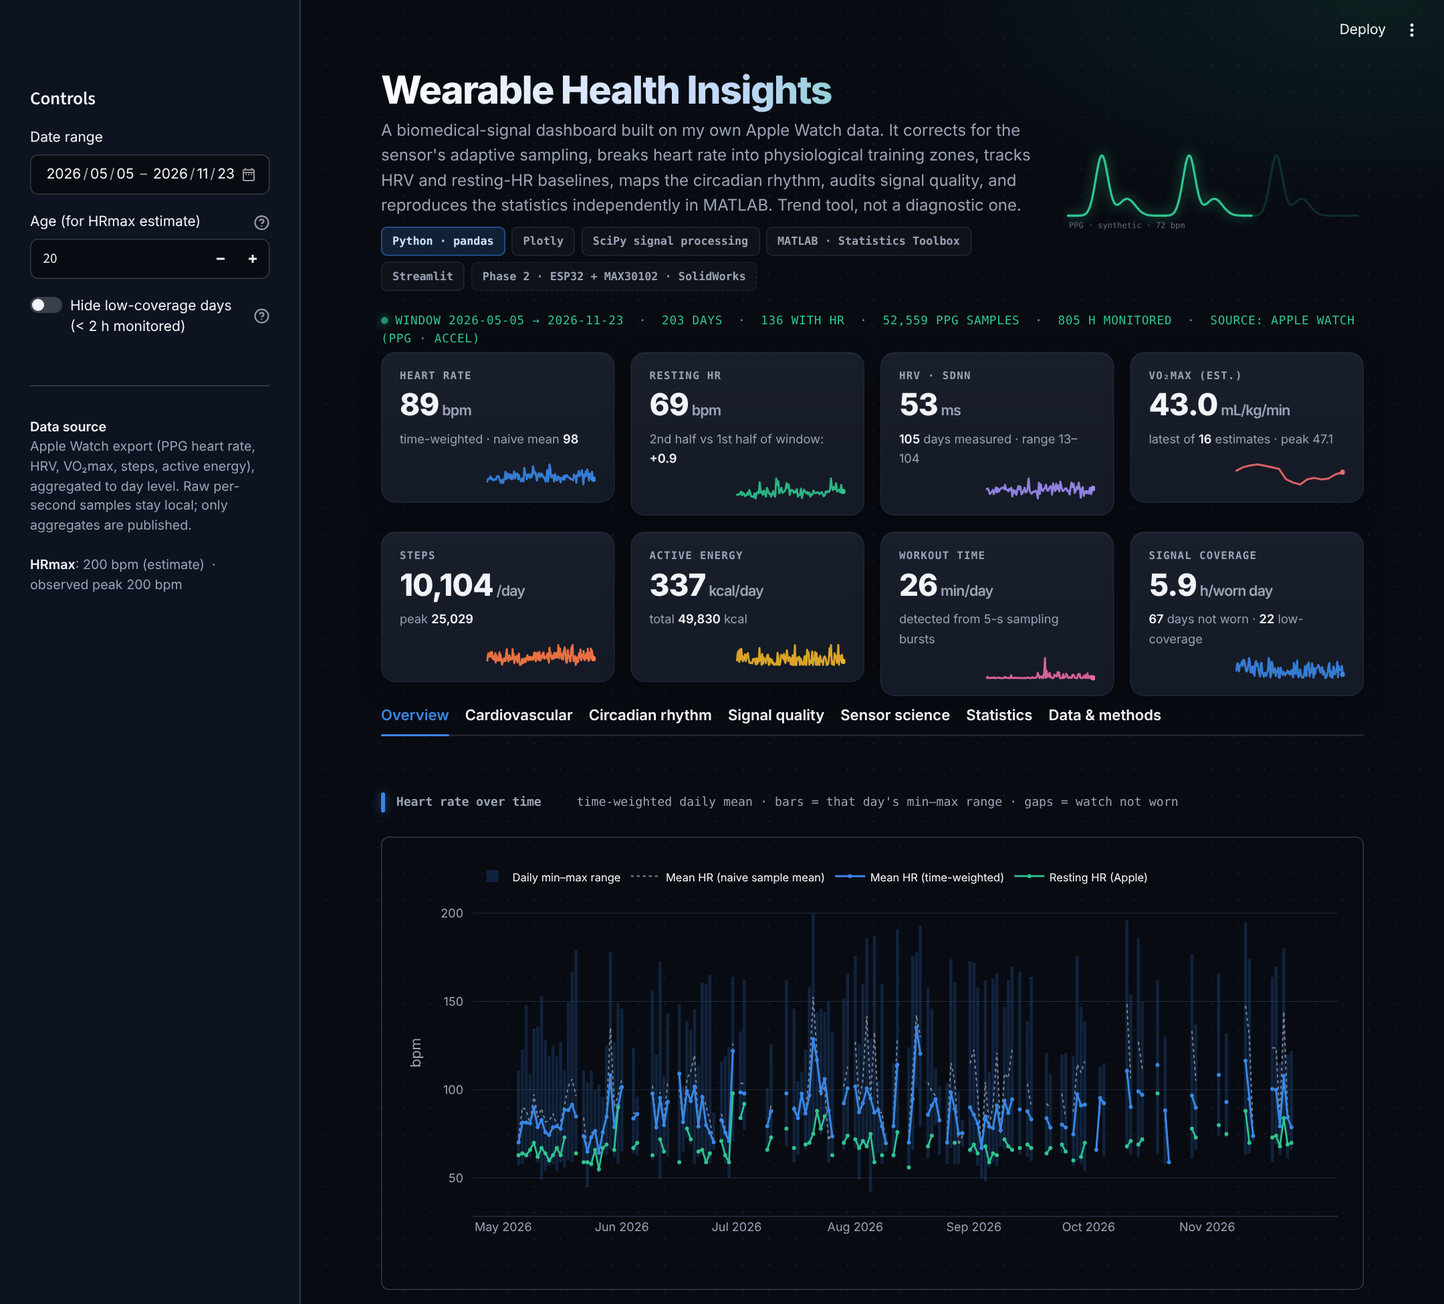
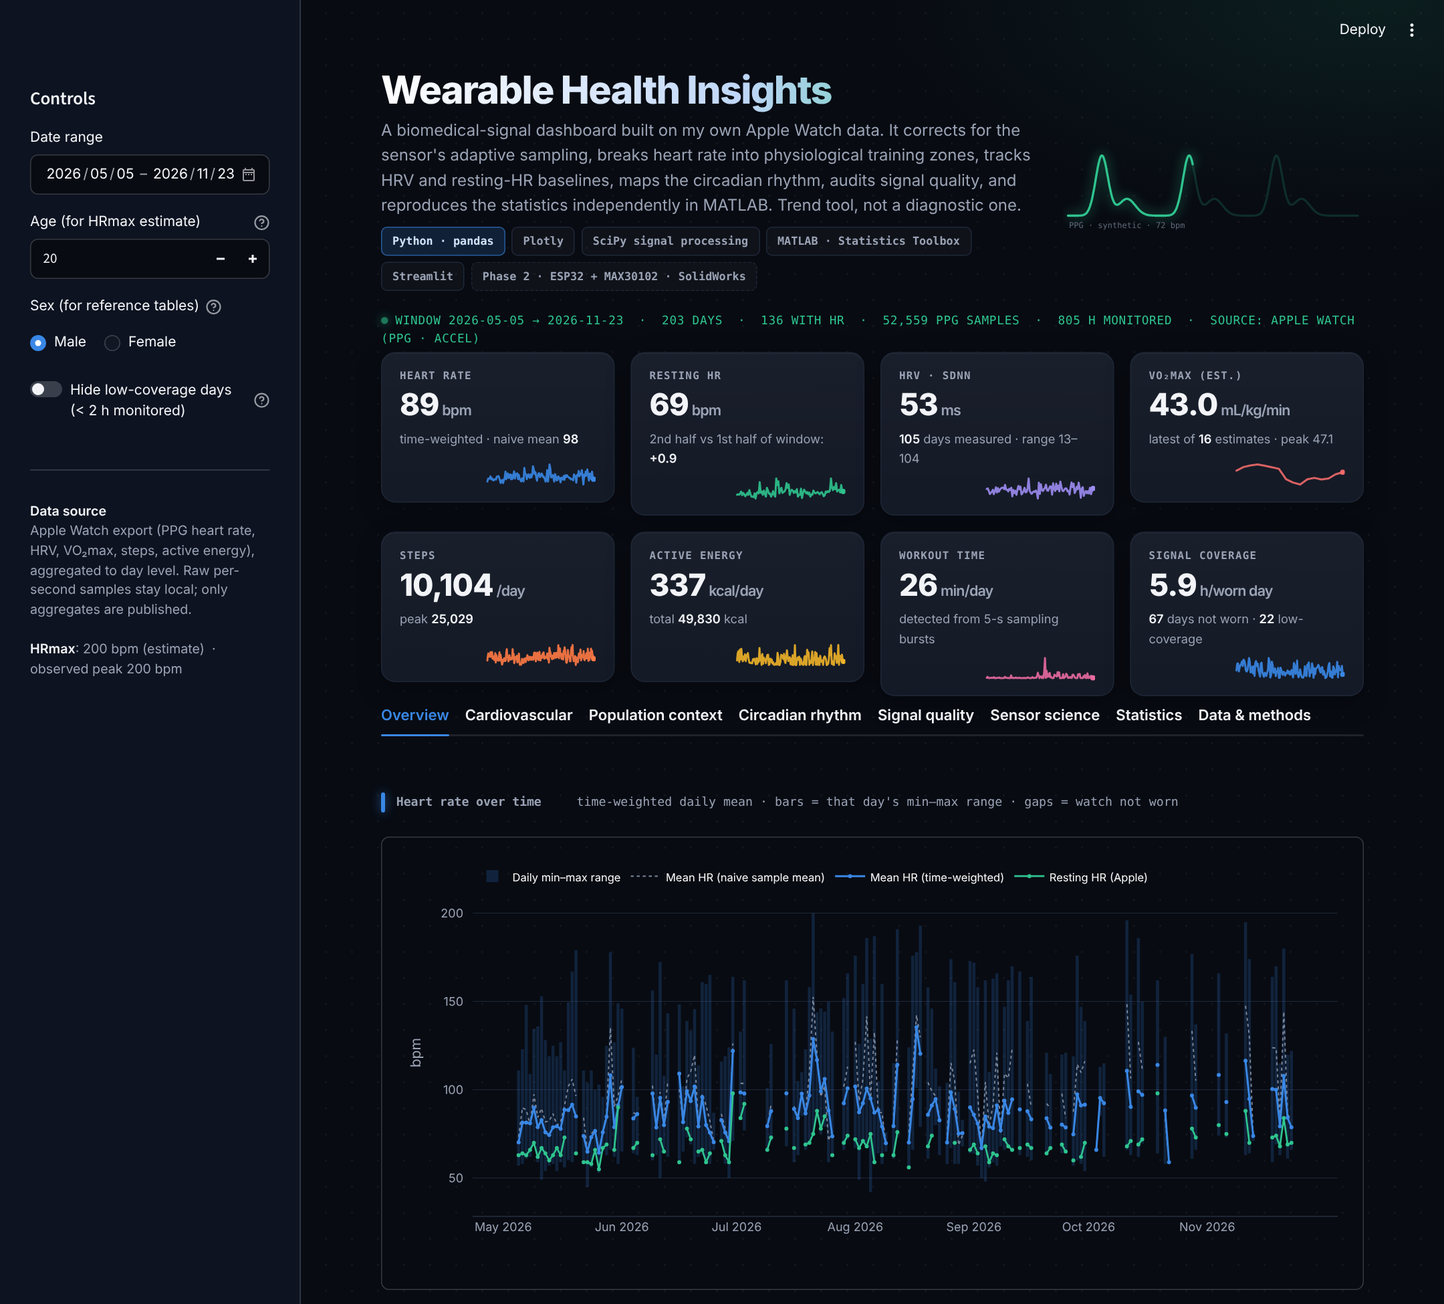
Add population-context tab with published US reference data
- VO2max vs FRIEND registry percentiles, resting HR vs NHANES 1999-2008,
  steps vs US adult average; HRV deliberately not compared
- Sex selector in sidebar; reference band on the VO2max chart
- README section with sources and screenshot

Changed region(s): [[0.0, 0.2154, 0.1861, 0.5231], [0.4032, 0.5231, 0.8065, 0.5538], [0.8375, 0.5231, 0.8995, 0.5538]]

diff --git a/app.py b/app.py
@@ -52,6 +52,42 @@ ZONE_LABELS = ["Zone 1 · Very light", "Zone 2 · Light", "Zone 3 · Moderate",
 ZONE_COLS = ["zone1_min", "zone2_min", "zone3_min", "zone4_min", "zone5_min"]
 MONO = "'JetBrains Mono', 'SF Mono', ui-monospace, Menlo, Consolas, monospace"
 
+# -----------------------------------------------------------------------------
+# Published US reference data (for the "Population context" tab).
+# These are transcribed from the cited tables - they are NOT derived from my data.
+# Each list holds the 5th, 10th, 25th, 50th, 75th, 90th and 95th percentiles.
+# -----------------------------------------------------------------------------
+REF_PCTS = [5, 10, 25, 50, 75, 90, 95]
+
+# VO2max, mL O2/kg/min, measured directly by cardiopulmonary exercise testing on
+# a treadmill. Kaminsky et al., Mayo Clin Proc 2015 (FRIEND registry, 7,783 tests,
+# US adults 20-79 without cardiovascular disease), Table 3.
+VO2_REF = {
+    "Male": {(20, 29): [29.0, 32.1, 40.1, 48.0, 55.2, 61.8, 66.3], (30, 39): [27.2, 30.2, 35.9, 42.4, 49.2, 56.5, 59.8],
+             (40, 49): [24.2, 26.8, 31.9, 37.8, 45.0, 52.1, 55.6], (50, 59): [20.9, 22.8, 27.1, 32.6, 39.7, 45.6, 50.7],
+             (60, 69): [17.4, 19.8, 23.7, 28.2, 34.5, 40.3, 43.0], (70, 79): [16.3, 17.1, 20.4, 24.4, 30.4, 36.6, 39.7]},
+    "Female": {(20, 29): [21.7, 23.9, 30.5, 37.6, 44.7, 51.3, 56.0], (30, 39): [19.0, 20.9, 25.3, 30.2, 36.1, 41.4, 45.8],
+               (40, 49): [17.0, 18.8, 22.1, 26.7, 32.4, 38.4, 41.7], (50, 59): [16.0, 17.3, 19.9, 23.4, 27.6, 32.0, 35.9],
+               (60, 69): [13.4, 14.6, 17.2, 20.0, 23.8, 27.0, 29.4], (70, 79): [13.1, 13.6, 15.6, 18.3, 20.8, 23.1, 24.1]},
+}
+
+# Resting pulse rate, beats/min, counted after ~4 minutes seated rest.
+# Ostchega et al., National Health Statistics Reports no. 41, 2011
+# (NHANES 1999-2008), Tables 2 and 3.
+RHR_REF = {
+    "Male": {(16, 19): [52, 56, 61, 69, 78, 87, 92], (20, 39): [52, 55, 61, 69, 76, 84, 89],
+             (40, 59): [52, 55, 61, 68, 77, 85, 90], (60, 79): [50, 54, 60, 67, 75, 84, 91],
+             (80, 120): [51, 54, 61, 68, 78, 86, 94]},
+    "Female": {(16, 19): [58, 62, 69, 77, 85, 94, 99], (20, 39): [57, 60, 66, 74, 82, 89, 95],
+               (40, 59): [56, 59, 64, 71, 79, 86, 92], (60, 79): [56, 59, 64, 70, 78, 86, 92],
+               (80, 120): [56, 59, 64, 71, 77, 85, 93]},
+}
+
+# Steps per day: one overall figure for US adults aged 20+ (not split by age or sex).
+# Tudor-Locke et al., Int J Behav Nutr Phys Act 2010 (NHANES 2005-2006, hip-worn
+# ActiGraph accelerometer, steps censored to a pedometer-like scale).
+STEPS_REF_US_ADULTS = 6564
+
 st.markdown(
     f"""
     <style>
@@ -322,6 +358,62 @@ def sensor_cross_section_svg() -> str:
 </svg></div>"""
 
 
+def ref_row(table: dict, sex_key: str, age_years: int):
+    """Look up the reference row for a sex and age. Returns (label, values) or None."""
+    for (lo, hi), vals in table[sex_key].items():
+        if lo <= age_years <= hi:
+            return (f"{lo}+" if hi >= 120 else f"{lo}–{hi}"), vals
+    return None
+
+
+def ordinal(n: float) -> str:
+    n = int(round(n))
+    suffix = "th" if 10 <= n % 100 <= 20 else {1: "st", 2: "nd", 3: "rd"}.get(n % 10, "th")
+    return f"{n}{suffix}"
+
+
+def estimate_percentile(value: float, vals: list) -> str:
+    """Place a value on a published percentile table by linear interpolation
+    between the tabulated percentiles. Outside the table it is only bounded."""
+    if pd.isna(value):
+        return "—"
+    if value < vals[0]:
+        return "below the 5th percentile"
+    if value > vals[-1]:
+        return "above the 95th percentile"
+    return f"about the {ordinal(np.interp(value, vals, REF_PCTS))} percentile"
+
+
+def percentile_strip(vals: list, value: float, lo: float, hi: float, unit: str, color: str, name: str) -> go.Figure:
+    """Horizontal reference strip: nested 5–95 / 10–90 / 25–75 bands, median tick,
+    and my own value (marker) with the range of my values in the window (whisker)."""
+    fig = go.Figure()
+    bands = [(0, 6, "rgba(154,163,181,0.14)", "5th–95th"), (1, 5, "rgba(154,163,181,0.24)", "10th–90th"),
+             (2, 4, "rgba(154,163,181,0.40)", "25th–75th")]
+    for i, j, fill, label in bands:
+        fig.add_trace(go.Bar(y=[""], x=[vals[j] - vals[i]], base=vals[i], orientation="h", width=0.62,
+                             marker_color=fill, marker_line_width=0, name=f"Reference {label}",
+                             hovertemplate=f"{label}: {vals[i]:g}–{vals[j]:g} {unit}<extra></extra>"))
+    fig.add_shape(type="line", x0=vals[3], x1=vals[3], y0=-0.31, y1=0.31, line=dict(color="#E6EBF5", width=2))
+    for p, v in zip(REF_PCTS, vals):
+        fig.add_annotation(x=v, y=0.34, yanchor="bottom", text=f"{p}th<br><b>{v:g}</b>", showarrow=False,
+                           font=dict(size=10, color=C["ink2"]))
+    if pd.notna(lo) and pd.notna(hi) and hi > lo:
+        fig.add_trace(go.Scatter(x=[lo, hi], y=["", ""], mode="lines", line=dict(color=color, width=3),
+                                 name="My range in this window",
+                                 hovertemplate="my range: " + f"{lo:.1f}–{hi:.1f} {unit}<extra></extra>"))
+    fig.add_trace(go.Scatter(x=[value], y=[""], mode="markers", name=name,
+                             marker=dict(color=color, size=16, symbol="diamond", line=dict(color=C["surface"], width=2)),
+                             hovertemplate=f"{name}: {value:.1f} {unit}<extra></extra>"))
+    fig = base_layout(fig, 230, xtitle=unit)
+    span = max(vals[-1], hi if pd.notna(hi) else value, value) - min(vals[0], lo if pd.notna(lo) else value, value)
+    fig.update_layout(barmode="overlay", hovermode="closest", margin=dict(l=10, r=10, t=40, b=10))
+    fig.update_xaxes(range=[min(vals[0], lo if pd.notna(lo) else value, value) - 0.06 * span,
+                            max(vals[-1], hi if pd.notna(hi) else value, value) + 0.06 * span], showgrid=False)
+    fig.update_yaxes(showticklabels=False, showgrid=False, range=[-0.45, 0.8])
+    return fig
+
+
 def base_layout(fig: go.Figure, height=360, ytitle="", xtitle="", legend=True) -> go.Figure:
     """One consistent chart style: recessive grid, thin marks, legend on top."""
     fig.update_layout(
@@ -356,6 +448,9 @@ with st.sidebar:
     age = st.number_input("Age (for HRmax estimate)", min_value=10, max_value=90, value=20, step=1,
                           help="HRmax ≈ 220 − age (Fox formula). Zones in the pipeline use 200 bpm.")
     hr_max_est = 220 - age
+    sex = st.radio("Sex (for reference tables)", ["Male", "Female"], horizontal=True,
+                   help="Published reference values are split by age and sex. Used only on the "
+                        "Population context tab and the VO₂max chart.")
     hide_low = st.toggle("Hide low-coverage days (< 2 h monitored)", value=False,
                          help="Days where the watch was worn but recorded less than two hours of heart-rate "
                               "data. Days it was not worn at all have no heart-rate values to begin with.")
@@ -462,8 +557,8 @@ kpi(k[3], "Signal coverage", fmt(hr_days["monitored_hours"].mean(), ".1f"), "h/w
 # =============================================================================
 # 5. Tabs
 # =============================================================================
-tab_over, tab_cardio, tab_circ, tab_quality, tab_sensor, tab_stats, tab_data = st.tabs([
-    "Overview", "Cardiovascular", "Circadian rhythm", "Signal quality",
+tab_over, tab_cardio, tab_ctx, tab_circ, tab_quality, tab_sensor, tab_stats, tab_data = st.tabs([
+    "Overview", "Cardiovascular", "Population context", "Circadian rhythm", "Signal quality",
     "Sensor science", "Statistics", "Data & methods"])
 
 # ----------------------------------------------------------------------------- Overview
@@ -638,6 +733,12 @@ with tab_cardio:
                                            line=dict(color=C["red"], width=2, shape="hv"), marker=dict(size=8),
                                            hovertemplate="%{y:.1f} mL/kg/min"))
                 fig = base_layout(fig, 300, ytitle="mL/kg/min", legend=False)
+                _vref = ref_row(VO2_REF, sex, age)
+                if _vref:
+                    fig.add_hrect(y0=_vref[1][2], y1=_vref[1][4], fillcolor="rgba(154,163,181,0.14)", line_width=0,
+                                  annotation_text=f"US reference 25th–75th pct · {sex.lower()} {_vref[0]} · lab-measured",
+                                  annotation_position="top left", annotation_font=dict(size=10, color=C["ink2"]))
+                    fig.add_hline(y=_vref[1][3], line=dict(color=C["ink2"], width=1, dash="dot"))
                 fig.update_xaxes(range=[cal["date"].min(), cal["date"].max()])
                 show(fig)
         with c2:
@@ -650,6 +751,92 @@ with tab_cardio:
                  "not a lab measurement.")
     else:
         st.info("No VO₂max estimates in this window — the Watch only produces one after a qualifying outdoor walk or run.")
+
+# ----------------------------------------------------------------------------- Population context
+with tab_ctx:
+    note("<h4>What this tab is — and is not</h4>"
+         "It places three of my numbers next to <b>published US reference data</b> for the age and sex chosen in the "
+         "sidebar, so a reader can see roughly where they sit in a population. It is context, not a health "
+         "assessment: nothing here is labelled normal or abnormal. Reference data is <b>national</b> and split by age "
+         "and sex only — no published tables exist at city or state level, so there is no \"regional\" comparison. "
+         "Each comparison also crosses a <b>measurement-method gap</b> (a wearable's estimate vs a laboratory or "
+         "clinical measurement), which is spelled out under each chart.", "warn")
+
+    # ---- VO2max ---------------------------------------------------------------
+    section("VO₂max", "my wearable estimate vs lab-measured US reference (FRIEND registry)")
+    vref = ref_row(VO2_REF, sex, age)
+    if not HAS_VO2:
+        st.info("No VO₂max estimates in this window.")
+    elif vref is None:
+        st.info("The FRIEND reference tables cover ages 20–79; no reference row exists for the selected age.")
+    else:
+        v_latest, v_med = vo2_vals.iloc[-1], vo2_vals.median()
+        with st.container(border=True):
+            show(percentile_strip(vref[1], v_latest, vo2_vals.min(), vo2_vals.max(), "mL/kg/min", C["red"],
+                                  "My latest estimate"))
+        note(f"Reference: <b>{sex.lower()}, {vref[0]} years</b>. My latest estimate ({v_latest:.1f}) sits at "
+             f"<b>{estimate_percentile(v_latest, vref[1])}</b>; across this window my {len(vo2_vals)} estimates ranged "
+             f"{vo2_vals.min():.1f}–{vo2_vals.max():.1f} (median {v_med:.1f}, {estimate_percentile(v_med, vref[1])}). "
+             "<br><b>Method gap:</b> the reference values were <i>measured</i> — expired-gas analysis during a maximal "
+             "treadmill test. Mine are <i>estimated</i> by the watch from pace and heart-rate response on outdoor "
+             "walks and runs, with no gas measurement. A wearable estimate can be off for any one "
+             "individual, so the percentile is a rough placement, and the registry itself is a sample of people who "
+             "came in for exercise testing rather than a random sample of the country.")
+
+    # ---- Resting HR -----------------------------------------------------------
+    section("Resting heart rate", "my daily Apple estimates vs US resting pulse reference (NHANES 1999–2008)")
+    rref = ref_row(RHR_REF, sex, age)
+    if rest_recent.empty:
+        st.info("No resting-heart-rate values in this window.")
+    elif rref is None:
+        st.info("The adult reference rows used here start at age 16; no reference row exists for the selected age.")
+    else:
+        r_med = rest_recent.median()
+        with st.container(border=True):
+            show(percentile_strip(rref[1], r_med, rest_recent.quantile(.05), rest_recent.quantile(.95), "bpm",
+                                  C["aqua"], "My median resting HR"))
+        note(f"Reference: <b>{sex.lower()}, {rref[0]} years</b>. My median daily resting HR ({r_med:.0f} bpm over "
+             f"{len(rest_recent)} days) sits at <b>{estimate_percentile(r_med, rref[1])}</b>; the bar shows the middle "
+             f"90 % of my days ({rest_recent.quantile(.05):.0f}–{rest_recent.quantile(.95):.0f} bpm). "
+             "<br><b>Method gap:</b> the survey value is a pulse counted once, by an examiner, after about four minutes "
+             "of seated rest in a clinic. Apple's figure is an algorithmic daily estimate built from background PPG "
+             "readings while still and awake. They target the same quantity but are not the same measurement, so small "
+             "differences in percentile should not be over-read.")
+
+    # ---- Steps ----------------------------------------------------------------
+    section("Daily steps", "my mean vs the US adult average (NHANES 2005–2006) — the loosest of the three")
+    s1, s2, s3 = st.columns(3)
+    my_steps = df["total_steps"].mean()
+    kpi(s1, "My mean", fmt(my_steps, ",.0f"), "steps/day", f"{int(df['total_steps'].notna().sum())} days in window",
+        color=C["orange"])
+    kpi(s2, "US adults 20+", f"{STEPS_REF_US_ADULTS:,}", "steps/day", "hip accelerometer, pedometer-scaled")
+    kpi(s3, "Ratio", fmt(my_steps / STEPS_REF_US_ADULTS, ".2f"), "×", "my mean ÷ reference mean")
+    st.markdown('<div style="height:.6rem"></div>', unsafe_allow_html=True)
+    note("<b>Why this one is only a rough guide.</b> The reference is a single figure for all US adults aged 20 and "
+         "over — it is not split by age or sex — measured with a hip-worn research accelerometer in 2005–2006, with "
+         "low-intensity steps removed to mimic a pedometer. Mine come from a wrist watch plus phone two decades "
+         "later, with different step-detection algorithms and no such censoring. Different sensor location, different "
+         "algorithm, different era: read the ratio as \"more or less than a typical adult\", not as a precise multiple.")
+
+    # ---- HRV: deliberately no comparison --------------------------------------
+    section("Heart-rate variability", "deliberately not compared")
+    note("No reference line is drawn for HRV. Published SDNN norms come from <b>24-hour ECG</b> recordings; the watch "
+         "reports SDNN from <b>~1-minute optical (PPG)</b> windows taken a few times a day. SDNN grows with recording "
+         "length — a full day contains slow circadian swings a one-minute window cannot — so the two numbers are on "
+         "different scales, and plotting one against the other would be a category error. HRV is tracked against my "
+         "own baseline instead (Cardiovascular tab). Mean heart rate, zone minutes and TRIMP have no population "
+         "norms at all, for the same reason: they depend on how and when the device samples.")
+
+    section("Sources")
+    note("<ul style='margin:.1rem 0 0 1rem;padding:0'>"
+         "<li><b>VO₂max</b> — Kaminsky et al., <i>Mayo Clinic Proceedings</i> 2015, FRIEND registry, Table 3. "
+         "7,783 maximal treadmill tests with gas analysis, US adults 20–79 without cardiovascular disease.</li>"
+         "<li><b>Resting heart rate</b> — Ostchega et al., <i>National Health Statistics Reports</i> no. 41, 2011, "
+         "Tables 2–3. NHANES 1999–2008; pulse counted after about four minutes of seated rest.</li>"
+         "<li><b>Steps per day</b> — Tudor-Locke et al., <i>Int J Behav Nutr Phys Act</i> 2010. NHANES 2005–2006, "
+         "3,522 US adults aged 20+; hip-worn ActiGraph accelerometer, censored steps.</li></ul>")
+    st.caption("Percentiles between tabulated values are linearly interpolated; values outside the 5th–95th range are "
+               "reported only as below/above. Reference numbers are transcribed from the cited tables.")
 
 # ----------------------------------------------------------------------------- Circadian
 with tab_circ:
@@ -1032,6 +1219,7 @@ with tab_data:
              "<li><b>Workout detection</b> — samples ≤ 15 s apart (the Watch's workout-mode cadence).</li>"
              "<li><b>Training load</b> — Edwards TRIMP, Σ minutes-in-zone × zone index.</li>"
              "<li><b>Baselines</b> — 7-day rolling mean ± 1 SD on calendar days (≥ 3 valid days); anomaly = > 2 SD from the preceding 14-day baseline (≥ 7 valid days).</li>"
+             "<li><b>Population context</b> — published US percentile tables by age and sex (FRIEND, NHANES); my value placed by linear interpolation between tabulated percentiles.</li>"
              "<li><b>Gaps</b> — unworn days stay empty; nothing is interpolated, and next-day pairs use consecutive calendar days only.</li>"
              "<li><b>Statistics</b> — Pearson & Spearman with two-sided p-values; OLS with 95 % CI of the mean response.</li>"
              "</ul>")
@@ -1045,6 +1233,7 @@ with tab_data:
              "<li>HRV is PPG-derived SDNN from ~1-minute windows — not comparable to 24-h ECG clinical norms.</li>"
              "<li>Workout detection from sampling cadence is a proxy, not Apple's workout log (a workout left running inflates it).</li>"
              "<li>Several correlations are tested without multiple-comparison correction.</li>"
+             "<li>Population comparisons cross a measurement-method gap (wearable estimate vs lab/clinic) and are national, not regional.</li>"
              "<li>Nothing here is diagnostic.</li></ul>", "warn")
 
     section("Daily table", "every value the charts above are built from")

diff --git a/README.md b/README.md
@@ -56,6 +56,7 @@ This project started on a 48-day export. At n = 39 the corrected correlation was
 |---|---|---|
 | **Overview** | Time-weighted vs naive mean HR with daily min–max envelope, resting HR, steps, active energy | Non-uniform sampling, volume vs intensity |
 | **Cardiovascular** | Minutes per day in five HR zones (stacked), zone table with physiology, Edwards TRIMP training load, resting-HR and HRV (SDNN) baselines with ±1 SD bands and 2 SD anomaly flagging, VO₂max estimate trend | %HRmax zones, training impulse, heart-rate variability, autonomic recovery, cardiorespiratory fitness |
+| **Population context** | My VO₂max estimate and resting HR placed on published US percentile tables for the selected age and sex; steps vs the US adult average; HRV deliberately *not* compared | Reference ranges, why measurement method limits comparability |
 | **Circadian rhythm** | Date × hour heatmap of time-weighted HR, average 24-h profile with IQR band, monitoring density per hour | Circadian autonomic rhythm, nocturnal vagal dominance |
 | **Signal quality** | Per-day sampling bias, monitored hours with low-coverage flags, histogram of inter-sample gaps (sensor duty cycle) | Signal-integrity reporting, adaptive sampling / power budget |
 | **Sensor science** | How PPG works (Beer–Lambert, AC/DC components, green vs red/IR light, motion artefacts, PPG vs ECG) and an **interactive simulator**: synthetic PPG → Butterworth band-pass → peak detection → HR and SDNN estimate, with noise and motion-artefact controls | Photoplethysmography, filtering, peak detection, HRV |
@@ -63,6 +64,19 @@ This project started on a 48-day export. At n = 39 the corrected correlation was
 | **Data & methods** | Pipeline diagram, methods, stated limitations, full daily table with CSV download | Reproducibility |
 
 ![Sensor-science tab — PPG principle and the interactive signal-processing simulator](docs/sensor_science.png)
+
+## Population context — and its limits
+
+The dashboard places two metrics on published US reference tables (age- and sex-specific, selectable in the sidebar):
+
+- **VO₂max** against the FRIEND registry (Kaminsky et al., *Mayo Clin Proc* 2015 — 7,783 lab treadmill tests with gas analysis).
+- **Resting heart rate** against NHANES 1999–2008 (Ostchega et al., *National Health Statistics Reports* no. 41, 2011).
+
+Daily steps are shown next to the single US adult average from NHANES 2005–2006 (Tudor-Locke et al., 2010), flagged as a loose comparison. **HRV is deliberately not compared**: published SDNN norms come from 24-hour ECG, while the Watch reports SDNN from ~1-minute optical windows, and SDNN grows with recording length — the two are on different scales.
+
+Every comparison states its measurement-method gap (wearable estimate vs lab or clinic measurement). The reference data is national; no regional tables exist. It is context, not a health assessment.
+
+![Population-context tab — percentile strips for VO₂max and resting heart rate](docs/population_context.png)
 
 ## Pipeline
 
@@ -107,7 +121,7 @@ wearable-health-dashboard/
 ├── parse_health_data.py         # Streams export.xml -> per-metric CSVs
 ├── build_daily_summary.py       # Raw readings -> daily_summary / hourly_hr / sampling_profile
 ├── correlation_analysis.m       # MATLAB: naive vs corrected correlation, OLS + 95 % CI figure
-├── app.py                       # Streamlit dashboard (7 tabs)
+├── app.py                       # Streamlit dashboard (8 tabs)
 ├── .streamlit/config.toml       # Dark theme
 ├── daily_summary.csv            # One row per day (published)
 ├── hourly_hr.csv                # One row per date x hour (published)
@@ -156,6 +170,7 @@ With MATLAB and the Statistics and Machine Learning Toolbox, run `correlation_an
 - HRV is PPG-derived SDNN from ~1-minute windows; it is not comparable to 24-hour ECG clinical norms.
 - Workout detection from sampling cadence is a proxy, not Apple's workout log.
 - Several correlations are tested without multiple-comparison correction.
+- Population comparisons cross a measurement-method gap (wearable estimate vs lab/clinic) and are national, not regional.
 - Nothing here is diagnostic.
 
 ## Roadmap
